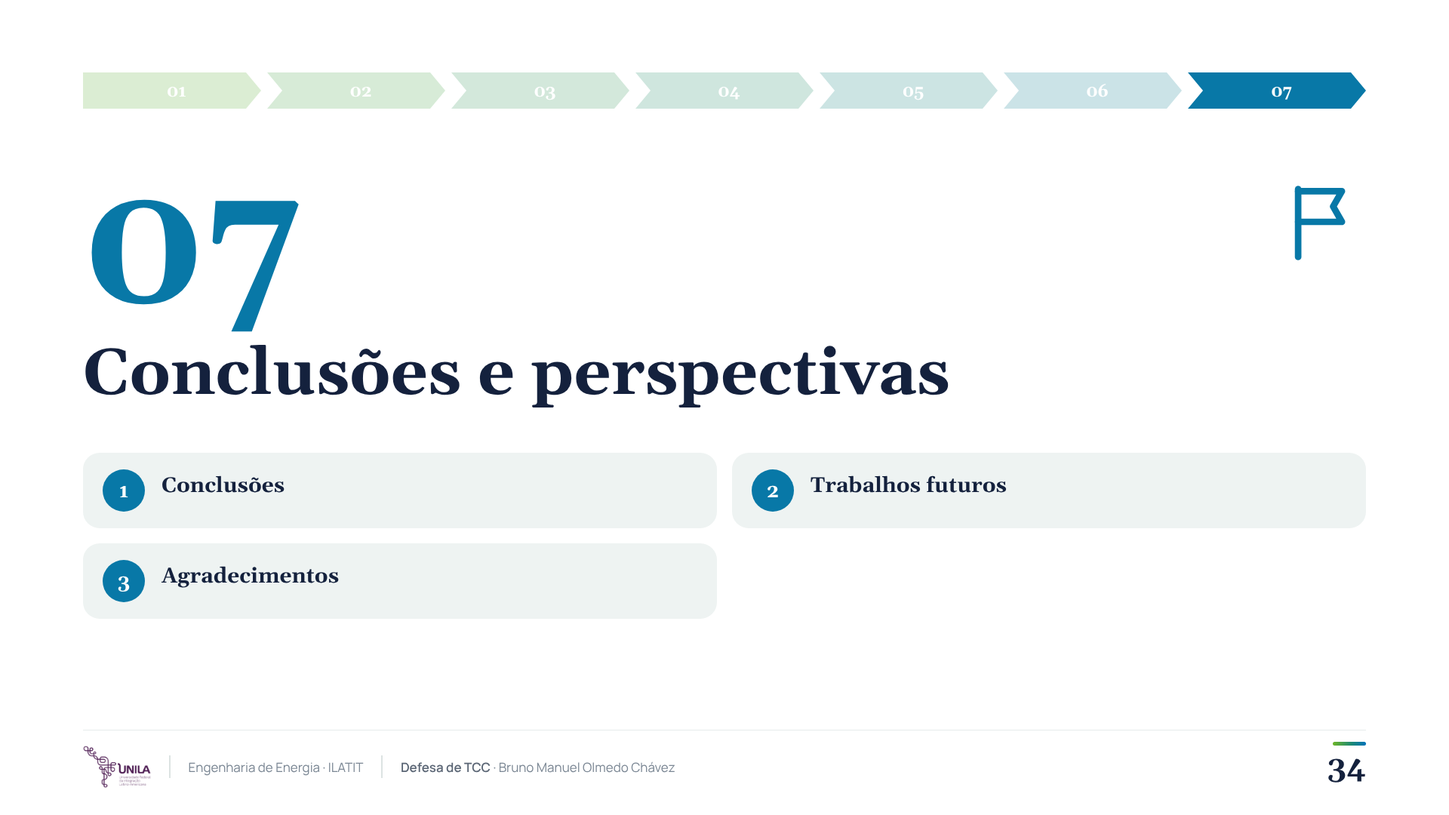
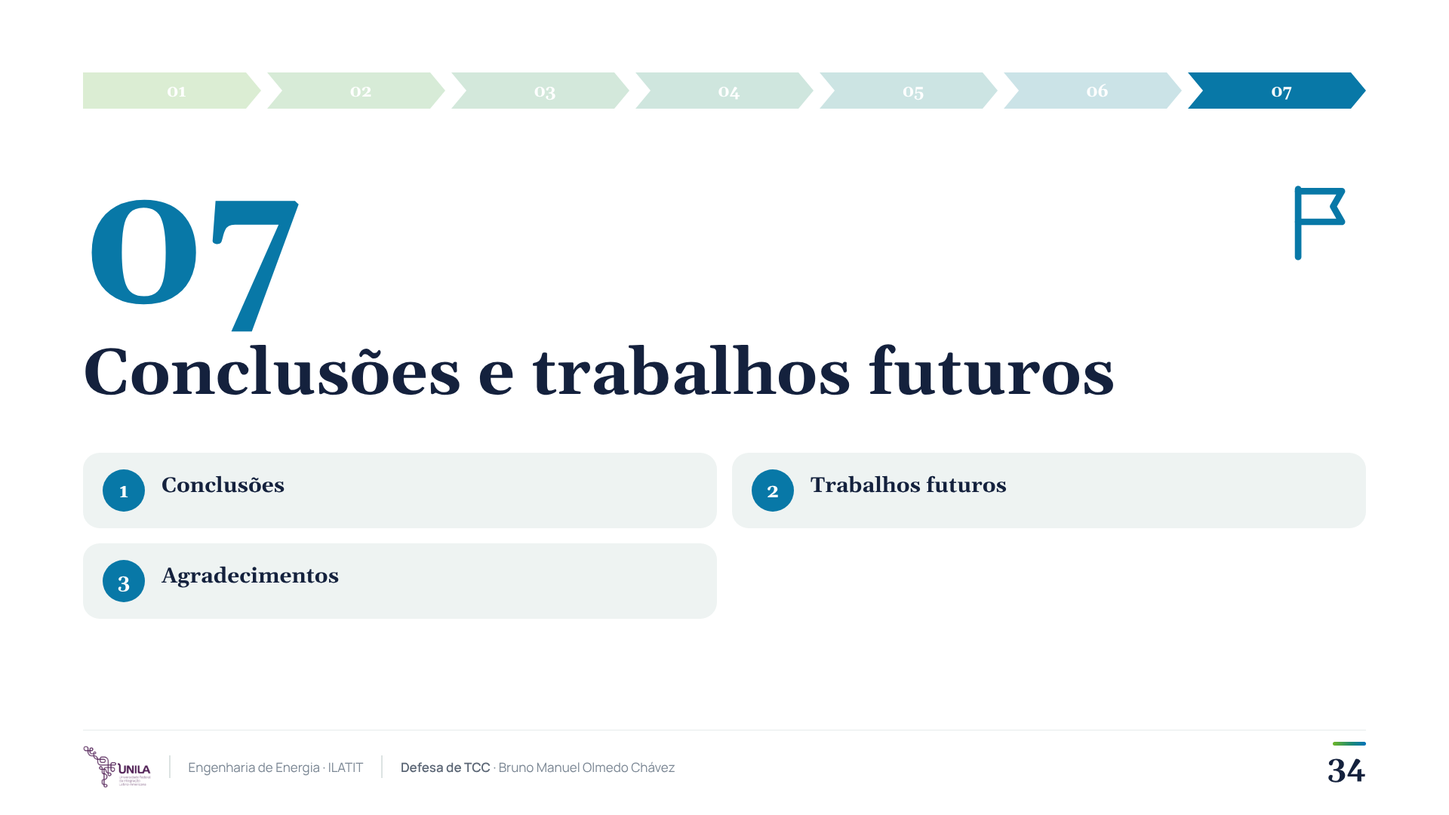
docs(defesa): slide 37 aprovado (trabalhos futuros); seção 07 renomeada para «Conclusões e trabalhos futuros»
Claude-Session: https://claude.ai/code/session_01WQ2GpNmr661smFWiS8XCqs

Changed region(s): [[0.375, 0.4278, 0.7812, 0.5194]]

diff --git a/docs/defesa_tcc/slides/divisor07.html b/docs/defesa_tcc/slides/divisor07.html
@@ -14,4 +14,4 @@ html,body{width:1920px;height:1080px;overflow:hidden;background:#fff}
 .d{position:absolute}
 .big{font:700 86px/1.05 "Gelasio",Georgia,serif;color:#14213D}
 .it{font:700 34px/1.2 "Gelasio",Georgia,serif;color:#14213D}
-</style></head><body><div class="slide" style=""><svg width="1920" height="1080" viewBox="0 0 1920 1080" style="position:absolute;left:0;top:0"><defs><linearGradient id="gb" x1="0" x2="1"><stop offset="0" stop-color="#6DB527"/><stop offset=".55" stop-color="#1E8A72"/><stop offset="1" stop-color="#0072BA"/></linearGradient><linearGradient id="gv" x1="0" y1="0" x2="0" y2="1"><stop offset="0" stop-color="#6DB527"/><stop offset=".55" stop-color="#1E8A72"/><stop offset="1" stop-color="#0072BA"/></linearGradient><radialGradient id="ge" cx=".5" cy=".5" r=".5"><stop offset="0" stop-color="#2C6FB0" stop-opacity=".16"/><stop offset="1" stop-color="#2C6FB0" stop-opacity=".03"/></radialGradient><radialGradient id="gs" cx=".5" cy=".5" r=".5"><stop offset="0" stop-color="#2E9E6B" stop-opacity=".16"/><stop offset="1" stop-color="#2E9E6B" stop-opacity=".03"/></radialGradient><linearGradient id="gq" x1="0" y1="1" x2="1" y2="0"><stop offset="0" stop-color="#1E8A72" stop-opacity="0"/><stop offset="1" stop-color="#1E8A72" stop-opacity=".13"/></linearGradient><linearGradient id="gsoc" x1="0" y1="0" x2="0" y2="1"><stop offset="0" stop-color="#7B6CF6" stop-opacity=".22"/><stop offset="1" stop-color="#7B6CF6" stop-opacity="0"/></linearGradient><linearGradient id="glime" x1="0" y1="0" x2="0" y2="1"><stop offset="0" stop-color="#C1FF72" stop-opacity=".30"/><stop offset="1" stop-color="#C1FF72" stop-opacity="0"/></linearGradient><filter id="halo" x="-60%" y="-60%" width="220%" height="220%"><feGaussianBlur stdDeviation="14"/></filter><marker id="ar" viewBox="0 0 10 10" refX="8" refY="5" markerWidth="9" markerHeight="9" orient="auto-start-reverse"><path d="M0 0L10 5L0 10z" fill="#14213D"/></marker><marker id="at" viewBox="0 0 10 10" refX="8" refY="5" markerWidth="8" markerHeight="8" orient="auto"><path d="M0 0L10 5L0 10z" fill="#1F7A6D"/></marker><clipPath id="cl"><circle cx="0" cy="0" r="1"/></clipPath><linearGradient id="gf" x1="0" y1="0" x2="0" y2="1"><stop offset="0" stop-color="#C0532F" stop-opacity=".24"/><stop offset="1" stop-color="#C0532F" stop-opacity="0"/></linearGradient><filter id="sh" x="-10%" y="-10%" width="120%" height="130%"><feDropShadow dx="0" dy="8" stdDeviation="14" flood-color="#14213D" flood-opacity=".12"/></filter></defs><polygon points="110.0,96 326.0,96 346.0,120.0 326.0,144 110.0,144" fill="#5cac37" opacity="0.22"/><text x="234.0" y="128.0" text-anchor="middle" font-family="Gelasio" font-weight="700" font-size="22" fill="#fff" letter-spacing="0">01</text><polygon points="354.0,96 570.0,96 590.0,120.0 570.0,144 354.0,144 374.0,120.0" fill="#4aa249" opacity="0.22"/><text x="478.0" y="128.0" text-anchor="middle" font-family="Gelasio" font-weight="700" font-size="22" fill="#fff" letter-spacing="0">02</text><polygon points="598.0,96 814.0,96 834.0,120.0 814.0,144 598.0,144 618.0,120.0" fill="#37985a" opacity="0.22"/><text x="722.0" y="128.0" text-anchor="middle" font-family="Gelasio" font-weight="700" font-size="22" fill="#fff" letter-spacing="0">03</text><polygon points="842.0,96 1058.0,96 1078.0,120.0 1058.0,144 842.0,144 862.0,120.0" fill="#258e6b" opacity="0.22"/><text x="966.0" y="128.0" text-anchor="middle" font-family="Gelasio" font-weight="700" font-size="22" fill="#fff" letter-spacing="0">04</text><polygon points="1086.0,96 1302.0,96 1322.0,120.0 1302.0,144 1086.0,144 1106.0,120.0" fill="#19867e" opacity="0.22"/><text x="1210.0" y="128.0" text-anchor="middle" font-family="Gelasio" font-weight="700" font-size="22" fill="#fff" letter-spacing="0">05</text><polygon points="1330.0,96 1546.0,96 1566.0,120.0 1546.0,144 1330.0,144 1350.0,120.0" fill="#107f92" opacity="0.22"/><text x="1454.0" y="128.0" text-anchor="middle" font-family="Gelasio" font-weight="700" font-size="22" fill="#fff" letter-spacing="0">06</text><polygon points="1574.0,96 1790.0,96 1810.0,120.0 1790.0,144 1574.0,144 1594.0,120.0" fill="#0878a7" opacity="1"/><text x="1698.0" y="128.0" text-anchor="middle" font-family="Gelasio" font-weight="700" font-size="22" fill="#fff" letter-spacing="0">07</text><text x="110" y="400" text-anchor="start" font-family="Gelasio" font-weight="700" font-size="230" fill="#0878a7" letter-spacing="0">07</text><svg x="1694" y="236" width="116" height="116" viewBox="0 0 40 40" style="color:#0878a7" fill="none" stroke="currentColor" stroke-width="3" stroke-linecap="round" stroke-linejoin="round"><path d="M9 36V5"/><path d="M9 6h20l-4 7 4 7H9"/></svg><rect x="110" y="600" width="840" height="100" rx="22" fill="#EEF3F2"/><circle cx="164" cy="650.0" r="28" fill="#0878a7"/><text x="164" y="659.0" text-anchor="middle" font-family="Gelasio" font-weight="700" font-size="26" fill="#fff" letter-spacing="0">1</text><rect x="970" y="600" width="840" height="100" rx="22" fill="#EEF3F2"/><circle cx="1024" cy="650.0" r="28" fill="#0878a7"/><text x="1024" y="659.0" text-anchor="middle" font-family="Gelasio" font-weight="700" font-size="26" fill="#fff" letter-spacing="0">2</text><rect x="110" y="720" width="840" height="100" rx="22" fill="#EEF3F2"/><circle cx="164" cy="770.0" r="28" fill="#0878a7"/><text x="164" y="779.0" text-anchor="middle" font-family="Gelasio" font-weight="700" font-size="26" fill="#fff" letter-spacing="0">3</text></svg><div class="d big" style="left:110px;top:452px;width:1500px">Conclusões e perspectivas</div><div class="d it" style="left:214px;top:628.0px;width:710px;font-size:28px">Conclusões</div><div class="d it" style="left:1074px;top:628.0px;width:710px;font-size:28px">Trabalhos futuros</div><div class="d it" style="left:214px;top:748.0px;width:710px;font-size:28px">Agradecimentos</div><div class="hl" style="bottom:112px"></div><div class="ft"><img src="../capa/assets/unila.png"><div class="sep"></div><span>Engenharia de Energia · ILATIT</span><div class="sep"></div><span><b>Defesa de TCC</b> · Bruno Manuel Olmedo Chávez</span></div><div class="pn">34</div></div></body></html>
+</style></head><body><div class="slide" style=""><svg width="1920" height="1080" viewBox="0 0 1920 1080" style="position:absolute;left:0;top:0"><defs><linearGradient id="gb" x1="0" x2="1"><stop offset="0" stop-color="#6DB527"/><stop offset=".55" stop-color="#1E8A72"/><stop offset="1" stop-color="#0072BA"/></linearGradient><linearGradient id="gv" x1="0" y1="0" x2="0" y2="1"><stop offset="0" stop-color="#6DB527"/><stop offset=".55" stop-color="#1E8A72"/><stop offset="1" stop-color="#0072BA"/></linearGradient><radialGradient id="ge" cx=".5" cy=".5" r=".5"><stop offset="0" stop-color="#2C6FB0" stop-opacity=".16"/><stop offset="1" stop-color="#2C6FB0" stop-opacity=".03"/></radialGradient><radialGradient id="gs" cx=".5" cy=".5" r=".5"><stop offset="0" stop-color="#2E9E6B" stop-opacity=".16"/><stop offset="1" stop-color="#2E9E6B" stop-opacity=".03"/></radialGradient><linearGradient id="gq" x1="0" y1="1" x2="1" y2="0"><stop offset="0" stop-color="#1E8A72" stop-opacity="0"/><stop offset="1" stop-color="#1E8A72" stop-opacity=".13"/></linearGradient><linearGradient id="gsoc" x1="0" y1="0" x2="0" y2="1"><stop offset="0" stop-color="#7B6CF6" stop-opacity=".22"/><stop offset="1" stop-color="#7B6CF6" stop-opacity="0"/></linearGradient><linearGradient id="glime" x1="0" y1="0" x2="0" y2="1"><stop offset="0" stop-color="#C1FF72" stop-opacity=".30"/><stop offset="1" stop-color="#C1FF72" stop-opacity="0"/></linearGradient><filter id="halo" x="-60%" y="-60%" width="220%" height="220%"><feGaussianBlur stdDeviation="14"/></filter><marker id="ar" viewBox="0 0 10 10" refX="8" refY="5" markerWidth="9" markerHeight="9" orient="auto-start-reverse"><path d="M0 0L10 5L0 10z" fill="#14213D"/></marker><marker id="at" viewBox="0 0 10 10" refX="8" refY="5" markerWidth="8" markerHeight="8" orient="auto"><path d="M0 0L10 5L0 10z" fill="#1F7A6D"/></marker><clipPath id="cl"><circle cx="0" cy="0" r="1"/></clipPath><linearGradient id="gf" x1="0" y1="0" x2="0" y2="1"><stop offset="0" stop-color="#C0532F" stop-opacity=".24"/><stop offset="1" stop-color="#C0532F" stop-opacity="0"/></linearGradient><filter id="sh" x="-10%" y="-10%" width="120%" height="130%"><feDropShadow dx="0" dy="8" stdDeviation="14" flood-color="#14213D" flood-opacity=".12"/></filter></defs><polygon points="110.0,96 326.0,96 346.0,120.0 326.0,144 110.0,144" fill="#5cac37" opacity="0.22"/><text x="234.0" y="128.0" text-anchor="middle" font-family="Gelasio" font-weight="700" font-size="22" fill="#fff" letter-spacing="0">01</text><polygon points="354.0,96 570.0,96 590.0,120.0 570.0,144 354.0,144 374.0,120.0" fill="#4aa249" opacity="0.22"/><text x="478.0" y="128.0" text-anchor="middle" font-family="Gelasio" font-weight="700" font-size="22" fill="#fff" letter-spacing="0">02</text><polygon points="598.0,96 814.0,96 834.0,120.0 814.0,144 598.0,144 618.0,120.0" fill="#37985a" opacity="0.22"/><text x="722.0" y="128.0" text-anchor="middle" font-family="Gelasio" font-weight="700" font-size="22" fill="#fff" letter-spacing="0">03</text><polygon points="842.0,96 1058.0,96 1078.0,120.0 1058.0,144 842.0,144 862.0,120.0" fill="#258e6b" opacity="0.22"/><text x="966.0" y="128.0" text-anchor="middle" font-family="Gelasio" font-weight="700" font-size="22" fill="#fff" letter-spacing="0">04</text><polygon points="1086.0,96 1302.0,96 1322.0,120.0 1302.0,144 1086.0,144 1106.0,120.0" fill="#19867e" opacity="0.22"/><text x="1210.0" y="128.0" text-anchor="middle" font-family="Gelasio" font-weight="700" font-size="22" fill="#fff" letter-spacing="0">05</text><polygon points="1330.0,96 1546.0,96 1566.0,120.0 1546.0,144 1330.0,144 1350.0,120.0" fill="#107f92" opacity="0.22"/><text x="1454.0" y="128.0" text-anchor="middle" font-family="Gelasio" font-weight="700" font-size="22" fill="#fff" letter-spacing="0">06</text><polygon points="1574.0,96 1790.0,96 1810.0,120.0 1790.0,144 1574.0,144 1594.0,120.0" fill="#0878a7" opacity="1"/><text x="1698.0" y="128.0" text-anchor="middle" font-family="Gelasio" font-weight="700" font-size="22" fill="#fff" letter-spacing="0">07</text><text x="110" y="400" text-anchor="start" font-family="Gelasio" font-weight="700" font-size="230" fill="#0878a7" letter-spacing="0">07</text><svg x="1694" y="236" width="116" height="116" viewBox="0 0 40 40" style="color:#0878a7" fill="none" stroke="currentColor" stroke-width="3" stroke-linecap="round" stroke-linejoin="round"><path d="M9 36V5"/><path d="M9 6h20l-4 7 4 7H9"/></svg><rect x="110" y="600" width="840" height="100" rx="22" fill="#EEF3F2"/><circle cx="164" cy="650.0" r="28" fill="#0878a7"/><text x="164" y="659.0" text-anchor="middle" font-family="Gelasio" font-weight="700" font-size="26" fill="#fff" letter-spacing="0">1</text><rect x="970" y="600" width="840" height="100" rx="22" fill="#EEF3F2"/><circle cx="1024" cy="650.0" r="28" fill="#0878a7"/><text x="1024" y="659.0" text-anchor="middle" font-family="Gelasio" font-weight="700" font-size="26" fill="#fff" letter-spacing="0">2</text><rect x="110" y="720" width="840" height="100" rx="22" fill="#EEF3F2"/><circle cx="164" cy="770.0" r="28" fill="#0878a7"/><text x="164" y="779.0" text-anchor="middle" font-family="Gelasio" font-weight="700" font-size="26" fill="#fff" letter-spacing="0">3</text></svg><div class="d big" style="left:110px;top:452px;width:1500px">Conclusões e trabalhos futuros</div><div class="d it" style="left:214px;top:628.0px;width:710px;font-size:28px">Conclusões</div><div class="d it" style="left:1074px;top:628.0px;width:710px;font-size:28px">Trabalhos futuros</div><div class="d it" style="left:214px;top:748.0px;width:710px;font-size:28px">Agradecimentos</div><div class="hl" style="bottom:112px"></div><div class="ft"><img src="../capa/assets/unila.png"><div class="sep"></div><span>Engenharia de Energia · ILATIT</span><div class="sep"></div><span><b>Defesa de TCC</b> · Bruno Manuel Olmedo Chávez</span></div><div class="pn">34</div></div></body></html>

diff --git a/docs/defesa_tcc/slides/slide37_aprovado.html b/docs/defesa_tcc/slides/slide37_aprovado.html
@@ -1,0 +1,19 @@
+<!doctype html><html lang="pt-BR"><head><meta charset="utf-8"><style>
+@import url("../capa/assets/fonts.css");
+*{box-sizing:border-box;margin:0;padding:0}
+html,body{width:1920px;height:1080px;overflow:hidden;background:#fff}
+.slide{position:relative;width:1920px;height:1080px;overflow:hidden;font-family:"Manrope",sans-serif;color:#14213D}
+.tt{position:absolute;left:110px;top:70px;font:700 60px "Gelasio",Georgia,serif}
+.hl{position:absolute;left:110px;right:110px;height:1.5px;background:#E6ECEB}
+.ft{position:absolute;left:110px;right:110px;bottom:34px;height:60px;display:flex;align-items:center;gap:24px;font:500 17px "Manrope";color:#7B8794}
+.ft img{height:56px}.ft .sep{width:1.5px;height:30px;background:#DCE3E2}.ft b{font-weight:600;color:#5B6675}
+.pn{position:absolute;right:110px;bottom:42px;font:700 40px "Gelasio",serif;line-height:1;text-align:right}
+.pn::before{content:"";display:block;width:44px;height:5px;border-radius:3px;margin:0 0 10px auto;background:linear-gradient(90deg,#6DB527,#1E8A72 55%,#0072BA)}
+.ref{position:absolute;left:110px;bottom:124px;font:500 14px "Manrope";color:#9AA5B1}
+
+.d{position:absolute}
+.p{font:500 22px/1.38 "Manrope";color:#4A5568}
+.p b{font-weight:800;color:#14213D}
+.p i{font-style:normal;color:#C0532F;font-weight:800}
+.p u{text-decoration:none;color:#1F7A6D;font-weight:800}
+</style></head><body><div class="slide"><div class="tt">Trabalhos futuros</div><svg width="1920" height="1080" viewBox="0 0 1920 1080" style="position:absolute;left:0;top:0"><rect x="110.0" y="240" width="322.4" height="650" rx="26" fill="#EEF3F2"/><circle cx="172.0" cy="310" r="38" fill="#fff" stroke="#C0532F" stroke-width="3"/><svg x="148.0" y="286" width="48" height="48" viewBox="0 0 40 40" style="color:#C0532F"><g fill="none" stroke="currentColor" stroke-width="3" stroke-linejoin="round" stroke-linecap="round"><path d="M5 36V22l7 4v-4l7 4V12h6v24z"/><path d="M28 9c2-3 6-2 6 1M26 4c2-1 4 0 4 2"/></g></svg><line x1="138.0" x2="404.4" y1="712" y2="712" stroke="#D5DDDC" stroke-width="2"/><rect x="454.4" y="240" width="322.4" height="650" rx="26" fill="#EEF3F2"/><circle cx="516.4" cy="310" r="38" fill="#fff" stroke="#2C6FB0" stroke-width="3"/><svg x="492.4" y="286" width="48" height="48" viewBox="0 0 40 40" style="color:#2C6FB0"><circle cx="20" cy="20" r="15" fill="none" stroke="currentColor" stroke-width="3"/><path d="M20 11v10l7 4" fill="none" stroke="currentColor" stroke-width="3" stroke-linecap="round"/></svg><line x1="482.4" x2="748.8" y1="712" y2="712" stroke="#D5DDDC" stroke-width="2"/><rect x="798.8" y="240" width="322.4" height="650" rx="26" fill="#EEF3F2"/><circle cx="860.8" cy="310" r="38" fill="#fff" stroke="#7B6CF6" stroke-width="3"/><svg x="836.8" y="286" width="48" height="48" viewBox="0 0 40 40" style="color:#7B6CF6"><rect x="6" y="11" width="25" height="18" rx="3" fill="none" stroke="currentColor" stroke-width="3"/><rect x="32" y="16" width="3" height="8" fill="currentColor"/><rect x="10" y="15" width="11" height="10" fill="currentColor"/></svg><line x1="826.8" x2="1093.1999999999998" y1="712" y2="712" stroke="#D5DDDC" stroke-width="2"/><rect x="1143.1999999999998" y="240" width="322.4" height="650" rx="26" fill="#EEF3F2"/><circle cx="1205.1999999999998" cy="310" r="38" fill="#fff" stroke="#4C8DD6" stroke-width="3"/><svg x="1181.1999999999998" y="286" width="48" height="48" viewBox="0 0 40 40" style="color:#4C8DD6"><path d="M12 31h17a7 7 0 0 0 0-14 10 10 0 0 0-19 3 6 6 0 0 0 2 11z" fill="none" stroke="currentColor" stroke-width="3" stroke-linejoin="round"/></svg><line x1="1171.1999999999998" x2="1437.6" y1="712" y2="712" stroke="#D5DDDC" stroke-width="2"/><rect x="1487.6" y="240" width="322.4" height="650" rx="26" fill="#EEF3F2"/><circle cx="1549.6" cy="310" r="38" fill="#fff" stroke="#1F7A6D" stroke-width="3"/><svg x="1525.6" y="286" width="48" height="48" viewBox="0 0 40 40" style="color:#1F7A6D"><path d="M9 21l7 7 15-16" fill="none" stroke="currentColor" stroke-width="3.5" stroke-linecap="round" stroke-linejoin="round"/></svg><line x1="1515.6" x2="1782.0" y1="712" y2="712" stroke="#D5DDDC" stroke-width="2"/></svg><div class="d " style="left:110px;top:168px;width:1700px;font:600 30px Manrope;color:#4A5568">A plataforma está pronta para avançar em:</div><div class="d " style="left:138.0px;top:376px;width:266.4px;font:700 30px/1.2 Gelasio,serif;color:#14213D">Geração térmica no EMS</div><div class="d p" style="left:138.0px;top:494px;width:266.4px;font-size:25px;line-height:1.4">Custos de combustível e restrições operacionais na formulação.</div><div class="d p" style="left:138.0px;top:730px;width:266.4px;font-size:23px;line-height:1.35"><div style="font:700 22px Manrope;color:#C0532F;margin-bottom:4px">Hoje</div>Modelo físico na bancada, ainda fora do EMS.</div><div class="d " style="left:482.4px;top:376px;width:266.4px;font:700 30px/1.2 Gelasio,serif;color:#14213D">Malha temporal automática</div><div class="d p" style="left:482.4px;top:494px;width:266.4px;font-size:25px;line-height:1.4">Definir o passo e os horizontes a partir dos dados e dos recursos.</div><div class="d p" style="left:482.4px;top:730px;width:266.4px;font-size:23px;line-height:1.35"><div style="font:700 22px Manrope;color:#2C6FB0;margin-bottom:4px">Hoje</div>Passo, N e H<sub>L</sub> declarados no cenário.</div><div class="d " style="left:826.8px;top:376px;width:266.4px;font:700 30px/1.2 Gelasio,serif;color:#14213D">Custo futuro com vários bancos</div><div class="d p" style="left:826.8px;top:494px;width:266.4px;font-size:25px;line-height:1.4">Aproximação mais fiel quando há mais de um armazenamento.</div><div class="d p" style="left:826.8px;top:730px;width:266.4px;font-size:23px;line-height:1.35"><div style="font:700 22px Manrope;color:#7B6CF6;margin-bottom:4px">Hoje</div>Até dois bancos, por envoltória convexa.</div><div class="d " style="left:1171.1999999999998px;top:376px;width:266.4px;font:700 30px/1.2 Gelasio,serif;color:#14213D">Previsão × realidade</div><div class="d p" style="left:1171.1999999999998px;top:494px;width:266.4px;font-size:25px;line-height:1.4">Avaliar a robustez com erros de previsão de demanda e clima.</div><div class="d p" style="left:1171.1999999999998px;top:730px;width:266.4px;font-size:23px;line-height:1.35"><div style="font:700 22px Manrope;color:#4C8DD6;margin-bottom:4px">Hoje</div>Realização igual à previsão (ensaio).</div><div class="d " style="left:1515.6px;top:376px;width:266.4px;font:700 30px/1.2 Gelasio,serif;color:#14213D">Dados experimentais</div><div class="d p" style="left:1515.6px;top:494px;width:266.4px;font-size:25px;line-height:1.4">Comparar com medições para validar a representatividade dos modelos.</div><div class="d p" style="left:1515.6px;top:730px;width:266.4px;font-size:23px;line-height:1.35"><div style="font:700 22px Manrope;color:#1F7A6D;margin-bottom:4px">Hoje</div>Modelos parametrizados, não calibrados.</div><div class="ref">Seções 7.4 e 8 do artigo</div><div class="hl" style="bottom:112px"></div><div class="ft"><img src="../capa/assets/unila.png"><div class="sep"></div><span>Engenharia de Energia · ILATIT</span><div class="sep"></div><span><b>Defesa de TCC</b> · Bruno Manuel Olmedo Chávez</span></div><div class="pn">37</div></div></body></html>

diff --git a/docs/defesa_tcc/capa/sumario.html b/docs/defesa_tcc/capa/sumario.html
@@ -23,4 +23,4 @@
 .cz.dm{background:var(--navy)}.cz.dm h3{color:#fff}
 .cz .vivo{position:absolute;right:30px;top:36px;display:flex;align-items:center;gap:10px;font:600 20px var(--sans);color:var(--lime)}
 .cz .vivo i{width:12px;height:12px;border-radius:50%;background:var(--lime);box-shadow:0 0 0 6px rgba(193,255,114,.18)}
-</style></head><body><div class="slide"><div class="tt" style="top:78px">Sumário</div><svg width="1920" height="1080" style="position:absolute;left:0;top:0"><defs><linearGradient id="g" x1="0" y1="0" x2="1" y2="0"><stop offset="0" stop-color="#6DB527"/><stop offset=".55" stop-color="#1E8A72"/><stop offset="1" stop-color="#0072BA"/></linearGradient></defs><path d="M110 525.0 L408.5 525.0 L428.5 545 L408.5 565.0 L110 565.0  Z" fill="#5cac37"/><path d="M416.5 525.0 L623.5 525.0 L643.5 545 L623.5 565.0 L416.5 565.0 L436.5 545 Z" fill="#4aa249"/><path d="M631.5 525.0 L838.5 525.0 L858.5 545 L838.5 565.0 L631.5 565.0 L651.5 545 Z" fill="#37985a"/><path d="M846.5 525.0 L1053.5 525.0 L1073.5 545 L1053.5 565.0 L846.5 565.0 L866.5 545 Z" fill="#258e6b"/><path d="M1061.5 525.0 L1268.5 525.0 L1288.5 545 L1268.5 565.0 L1061.5 565.0 L1081.5 545 Z" fill="#19867e"/><path d="M1276.5 525.0 L1483.5 525.0 L1503.5 545 L1483.5 565.0 L1276.5 565.0 L1296.5 545 Z" fill="#107f92"/><path d="M1491.5 525.0 L1790 525.0 L1810 545 L1790 565.0 L1491.5 565.0 L1511.5 545 Z" fill="#0878a7"/><circle cx="315.0" cy="545" r="7" fill="#fff"/><circle cx="530.0" cy="545" r="7" fill="#fff"/><circle cx="745.0" cy="545" r="7" fill="#fff"/><circle cx="960.0" cy="545" r="7" fill="#fff"/><circle cx="1175.0" cy="545" r="7" fill="#fff"/><circle cx="1390.0" cy="545" r="7" fill="#fff"/><circle cx="1605.0" cy="545" r="7" fill="#fff"/><line x1="315.0" y1="453" x2="315.0" y2="527.0" stroke="#5cac37" stroke-width="10"/><line x1="530.0" y1="567.0" x2="530.0" y2="633" stroke="#4aa249" stroke-width="10"/><line x1="745.0" y1="453" x2="745.0" y2="527.0" stroke="#37985a" stroke-width="10"/><line x1="960.0" y1="567.0" x2="960.0" y2="633" stroke="#258e6b" stroke-width="10"/><line x1="1175.0" y1="453" x2="1175.0" y2="527.0" stroke="#19867e" stroke-width="10"/><line x1="1390.0" y1="567.0" x2="1390.0" y2="633" stroke="#107f92" stroke-width="10"/><line x1="1605.0" y1="453" x2="1605.0" y2="527.0" stroke="#0878a7" stroke-width="10"/></svg><div class="cz up" style="left:110.0px;top:205px;border-color:#5cac37"><div class="nn" style="color:#5cac37">01</div><h3>Contexto e objetivos</h3></div><div class="cz dn" style="left:325.0px;top:635px;border-color:#4aa249"><div class="nn" style="color:#4aa249">02</div><h3>Fundamentação teórica</h3></div><div class="cz up" style="left:540.0px;top:205px;border-color:#37985a"><div class="nn" style="color:#37985a">03</div><h3>Desenvolvimento do&nbsp;SEEDS</h3></div><div class="cz dn" style="left:755.0px;top:635px;border-color:#258e6b"><div class="nn" style="color:#258e6b">04</div><h3>Estudos de caso</h3></div><div class="cz up dm" style="left:970.0px;top:205px;border-color:#19867e"><div class="nn" style="color:#C1FF72">05</div><div class="vivo"><i></i>ao vivo</div><h3>Demonstração do&nbsp;SEEDS</h3></div><div class="cz dn" style="left:1185.0px;top:635px;border-color:#107f92"><div class="nn" style="color:#107f92">06</div><h3>Resultados</h3></div><div class="cz up" style="left:1400.0px;top:205px;border-color:#0878a7"><div class="nn" style="color:#0878a7">07</div><h3>Conclusões e perspectivas</h3></div><div class="hl" style="bottom:112px"></div><div class="ft"><img src="assets/unila.png"><div class="sep"></div><span>Engenharia de Energia · ILATIT</span><div class="sep"></div><span><b>Defesa de TCC</b> · Bruno Manuel Olmedo Chávez</span></div><div class="pn" style="bottom:42px">2</div></div></body></html>
+</style></head><body><div class="slide"><div class="tt" style="top:78px">Sumário</div><svg width="1920" height="1080" style="position:absolute;left:0;top:0"><defs><linearGradient id="g" x1="0" y1="0" x2="1" y2="0"><stop offset="0" stop-color="#6DB527"/><stop offset=".55" stop-color="#1E8A72"/><stop offset="1" stop-color="#0072BA"/></linearGradient></defs><path d="M110 525.0 L408.5 525.0 L428.5 545 L408.5 565.0 L110 565.0  Z" fill="#5cac37"/><path d="M416.5 525.0 L623.5 525.0 L643.5 545 L623.5 565.0 L416.5 565.0 L436.5 545 Z" fill="#4aa249"/><path d="M631.5 525.0 L838.5 525.0 L858.5 545 L838.5 565.0 L631.5 565.0 L651.5 545 Z" fill="#37985a"/><path d="M846.5 525.0 L1053.5 525.0 L1073.5 545 L1053.5 565.0 L846.5 565.0 L866.5 545 Z" fill="#258e6b"/><path d="M1061.5 525.0 L1268.5 525.0 L1288.5 545 L1268.5 565.0 L1061.5 565.0 L1081.5 545 Z" fill="#19867e"/><path d="M1276.5 525.0 L1483.5 525.0 L1503.5 545 L1483.5 565.0 L1276.5 565.0 L1296.5 545 Z" fill="#107f92"/><path d="M1491.5 525.0 L1790 525.0 L1810 545 L1790 565.0 L1491.5 565.0 L1511.5 545 Z" fill="#0878a7"/><circle cx="315.0" cy="545" r="7" fill="#fff"/><circle cx="530.0" cy="545" r="7" fill="#fff"/><circle cx="745.0" cy="545" r="7" fill="#fff"/><circle cx="960.0" cy="545" r="7" fill="#fff"/><circle cx="1175.0" cy="545" r="7" fill="#fff"/><circle cx="1390.0" cy="545" r="7" fill="#fff"/><circle cx="1605.0" cy="545" r="7" fill="#fff"/><line x1="315.0" y1="453" x2="315.0" y2="527.0" stroke="#5cac37" stroke-width="10"/><line x1="530.0" y1="567.0" x2="530.0" y2="633" stroke="#4aa249" stroke-width="10"/><line x1="745.0" y1="453" x2="745.0" y2="527.0" stroke="#37985a" stroke-width="10"/><line x1="960.0" y1="567.0" x2="960.0" y2="633" stroke="#258e6b" stroke-width="10"/><line x1="1175.0" y1="453" x2="1175.0" y2="527.0" stroke="#19867e" stroke-width="10"/><line x1="1390.0" y1="567.0" x2="1390.0" y2="633" stroke="#107f92" stroke-width="10"/><line x1="1605.0" y1="453" x2="1605.0" y2="527.0" stroke="#0878a7" stroke-width="10"/></svg><div class="cz up" style="left:110.0px;top:205px;border-color:#5cac37"><div class="nn" style="color:#5cac37">01</div><h3>Contexto e objetivos</h3></div><div class="cz dn" style="left:325.0px;top:635px;border-color:#4aa249"><div class="nn" style="color:#4aa249">02</div><h3>Fundamentação teórica</h3></div><div class="cz up" style="left:540.0px;top:205px;border-color:#37985a"><div class="nn" style="color:#37985a">03</div><h3>Desenvolvimento do&nbsp;SEEDS</h3></div><div class="cz dn" style="left:755.0px;top:635px;border-color:#258e6b"><div class="nn" style="color:#258e6b">04</div><h3>Estudos de caso</h3></div><div class="cz up dm" style="left:970.0px;top:205px;border-color:#19867e"><div class="nn" style="color:#C1FF72">05</div><div class="vivo"><i></i>ao vivo</div><h3>Demonstração do&nbsp;SEEDS</h3></div><div class="cz dn" style="left:1185.0px;top:635px;border-color:#107f92"><div class="nn" style="color:#107f92">06</div><h3>Resultados</h3></div><div class="cz up" style="left:1400.0px;top:205px;border-color:#0878a7"><div class="nn" style="color:#0878a7">07</div><h3>Conclusões e trabalhos futuros</h3></div><div class="hl" style="bottom:112px"></div><div class="ft"><img src="assets/unila.png"><div class="sep"></div><span>Engenharia de Energia · ILATIT</span><div class="sep"></div><span><b>Defesa de TCC</b> · Bruno Manuel Olmedo Chávez</span></div><div class="pn" style="bottom:42px">2</div></div></body></html>

diff --git a/docs/defesa_tcc/pptx/gerar_pptx.js b/docs/defesa_tcc/pptx/gerar_pptx.js
@@ -52,7 +52,7 @@ async function icone(k, c) {
 // ordem, títulos, seções e notas: deck.json (gerado por deck.py); imagens: img_hd/deckNN.png (exportar_deck.js)
 const DECK = JSON.parse(fs.readFileSync(path.join(AQUI, "deck.json"), "utf8"));
 const SEC = ["Contexto e objetivos", "Fundamentação teórica", "Desenvolvimento do SEEDS", "Estudos de caso",
-             "Demonstração do SEEDS", "Resultados", "Conclusões e perspectivas"];
+             "Demonstração do SEEDS", "Resultados", "Conclusões e trabalhos futuros"];
 
 (async () => {
   const pres = new pptxgen();
@@ -131,7 +131,7 @@ const SEC = ["Contexto e objetivos", "Fundamentação teórica", "Desenvolviment
   // ---------------------------------------------------------------- 2 · sumário
   s = pres.addSlide({ masterName: "CONTEUDO", sectionTitle: "Abertura" });
   s.addText("Sumário", { placeholder: "title", align: "left" });
-  const TIT = ["Contexto e objetivos", "Fundamentação teórica", "Desenvolvimento do\u00A0SEEDS", "Estudos de caso", "Demonstração do\u00A0SEEDS", "Resultados", "Conclusões e perspectivas"];
+  const TIT = ["Contexto e objetivos", "Fundamentação teórica", "Desenvolvimento do\u00A0SEEDS", "Estudos de caso", "Demonstração do\u00A0SEEDS", "Resultados", "Conclusões e trabalhos futuros"];
   const x0 = 110, x1 = 1810, w = 410, h = 250, gap = (x1 - x0 - 4 * w) / 3, yU = 205, yB = 545, yD = 635, H = 40, d = 20, g = 8;
   const up = [0, 1, 2, 3].map((k) => x0 + w / 2 + k * (w + gap));
   const dn = up.slice(0, 3).map((a, k) => (a + up[k + 1]) / 2);

diff --git a/docs/defesa_tcc/pptx/deck.py b/docs/defesa_tcc/pptx/deck.py
@@ -14,7 +14,7 @@ from gerar_slide4_v3 import CSS  # noqa: E402
 
 FALA = {s["t"]: s.get("fala", "") for s in conteudo.SLIDES}
 SEC = ["Contexto e objetivos", "Fundamentação teórica", "Desenvolvimento do SEEDS", "Estudos de caso",
-       "Demonstração do SEEDS", "Resultados", "Conclusões e perspectivas"]
+       "Demonstração do SEEDS", "Resultados", "Conclusões e trabalhos futuros"]
 
 # (título, seção 1–7, html aprovado relativo a docs/defesa_tcc, ou None = provisório)
 ORDEM = [
@@ -52,15 +52,16 @@ ORDEM = [
     ("Resultados — custos operacionais (C1–C4)", 6, "slides/slide32_aprovado.html"),
     ("Resultados — embarcação híbrida (C5 × C6)", 6, "slides/slide33_aprovado.html"),
     ("Expansibilidade e desempenho computacional", 6, "slides/slide34_aprovado.html"),
-    ("Conclusões e perspectivas", 7, "slides/divisor07.html"),
+    ("Conclusões e trabalhos futuros", 7, "slides/divisor07.html"),
     ("Conclusões", 7, "slides/slide36_aprovado.html"),
-    ("Trabalhos futuros", 7, None),
+    ("Trabalhos futuros", 7, "slides/slide37_aprovado.html"),
     ("Agradecimentos", 7, None),
 ]
 # título do slide no roteiro (conteudo.py) quando difere do título no deck — para buscar a fala
 ALIAS = {"Estratégia de avaliação": "Estudos de caso", "Demonstração do SEEDS — acesso ao aplicativo": "Demonstração do SEEDS",
          "Resultados — coordenação hierárquica": "Resultados — coordenação hierárquica"}
 NOTA_EXTRA = {
+    "Trabalhos futuros": "A plataforma está pronta para avançar. Primeiro, levar a geração térmica para dentro do EMS, com custos de combustível e restrições operacionais: hoje ela tem modelo físico na bancada, mas ainda fica fora do gerenciamento. Segundo, definir automaticamente a malha temporal, que hoje é declarada no cenário. Terceiro, aperfeiçoar o custo futuro quando há mais de um banco de baterias. Quarto, avaliar a robustez com erros de previsão, já que nos ensaios a realização foi igual à previsão. E, por fim, comparar com dados experimentais, para validar a representatividade dos modelos.",
     "Conclusões": "Voltando à pergunta do início: um mesmo gerenciamento energético consegue operar microrredes de composições diferentes, considerando o valor futuro da energia armazenada? Sim, dentro do conjunto de recursos que a formulação representa. Na microrrede industrial, a bateria começou a carregar antes de a ponta entrar no horizonte do MPC, guiada pelo valor futuro; a economia foi a soma dos efeitos da solar e da bateria; e o plano da primeira decisão coincidiu com o custo realizado. Na embarcação, a demanda foi atendida sem rede; com a bateria carregada, a PEMFC ficou na base e a reserva foi cumprida; com pouca bateria, a PEMFC assumiu quase tudo e o hidrogênio quase dobrou. Os quatro objetivos específicos foram cumpridos.",
     "Expansibilidade e desempenho computacional": "Por fim, o desempenho. O mesmo código do EMS rodou nove composições, da microrrede só com rede até bateria com duas PEMFC: o MILP da primeira janela vai de 7 a 217 variáveis, mas a formulação, os critérios e a auditoria são os mesmos. A PEMFC entra no MILP por uma curva linear por partes de 15 vértices, gerada pelo modelo físico; comparada ao modelo em 402 pontos independentes, o erro máximo foi de 0,087 %, e o consumo nunca foi subestimado. As 168 janelas foram resolvidas até a otimalidade, cada decisão em até 5 segundos, e um dia inteiro da microrrede industrial em menos de 5 minutos.",
     "Resultados — embarcação híbrida (C5 × C6)": "Na embarcação, rodamos a mesma missão duas vezes, mudando só a carga inicial da bateria. Os despachos são os do próprio SEEDS. Em C5, com a bateria a 50 % e reserva final de 45 kWh, a PEMFC fica na base, entre 10 e 20 kW, onde o hidrogênio rende melhor, e a bateria cobre as variações da demanda; a missão termina exatamente na reserva. Em C6, com a bateria a 12 %, não há energia para gastar: a PEMFC passa a suprir 88 % da energia, entre 20 e 44 kW, recarrega a própria bateria nos intervalos de baixa demanda, e a bateria só entra nos picos. O consumo de hidrogênio quase dobra: 4,163 contra 2,156 kg. Mesma bateria, mesma missão, mesmo EMS: o que mudou foi o estado inicial, e o gerenciamento se adaptou a ele.",

diff --git a/docs/defesa_tcc/guia/conteudo.py b/docs/defesa_tcc/guia/conteudo.py
@@ -16,7 +16,7 @@ BLOCOS = [
      "Provar que a plataforma existe, funciona e reproduz o artigo: reproduzir ao vivo um resultado publicado."),
     ("V", "Resultados", "6:00",
      "Transformar números em respostas. Cada slide responde a «o que isto prova?»: custo → comportamento → hierarquia → embarcação → contraste → expansibilidade."),
-    ("VI", "Conclusões e perspectivas", "2:00",
+    ("VI", "Conclusões e trabalhos futuros", "2:00",
      "Responder à pergunta do início, objetivo por objetivo, e mostrar para onde a plataforma pode avançar."),
 ]
 
@@ -34,7 +34,7 @@ SLIDES = [
  dict(n=2, b="0", t="Sumário", tempo="0:20", status="Pronto", contrib="",
       msg="O percurso tem sete etapas — e uma delas é ao vivo.",
       tela=["Barramento em chevrons com 7 etapas em sequência",
-            "Cartões alternados acima e abaixo: 01 Contexto e objetivos · 02 Fundamentação teórica · 03 Desenvolvimento do SEEDS · 04 Estudos de caso · 05 Demonstração do SEEDS · 06 Resultados · 07 Conclusões e perspectivas",
+            "Cartões alternados acima e abaixo: 01 Contexto e objetivos · 02 Fundamentação teórica · 03 Desenvolvimento do SEEDS · 04 Estudos de caso · 05 Demonstração do SEEDS · 06 Resultados · 07 Conclusões e trabalhos futuros",
             "Cartão 05 em destaque (azul-marinho) com «ao vivo»"],
       porque="Mostra o caminho e anuncia que haverá uma demonstração; os mesmos chevrons podem voltar como barra de progresso nas transições de bloco.",
       fala="O percurso é este: contexto, fundamentos, a plataforma, os estudos, uma demonstração ao vivo, os resultados e as conclusões.",

diff --git a/docs/defesa_tcc/slides/gerar_divisores.py b/docs/defesa_tcc/slides/gerar_divisores.py
@@ -13,7 +13,7 @@ exec(_src[:_src.index("GRAD =")], SM.__dict__)          # só IC e cor(); não r
 
 D = os.path.dirname(os.path.abspath(__file__))
 SECOES = ["Contexto e objetivos", "Fundamentação teórica", "Desenvolvimento do SEEDS", "Estudos de caso",
-          "Demonstração do SEEDS", "Resultados", "Conclusões e perspectivas"]
+          "Demonstração do SEEDS", "Resultados", "Conclusões e trabalhos futuros"]
 _XS = [315, 530, 745, 960, 1175, 1390, 1605]            # posições dos nós no sumário aprovado (zigue-zague)
 COR = [SM.cor((x - 110) / 1700) for x in _XS]
 SUB = {

diff --git a/docs/defesa_tcc/capa/gerar_sumario2.py b/docs/defesa_tcc/capa/gerar_sumario2.py
@@ -5,7 +5,7 @@ D = os.path.dirname(os.path.abspath(__file__))
 AUT = "Bruno Manuel Olmedo Chávez"
 CUR = "Engenharia de Energia · ILATIT"
 TIT = ["Contexto e objetivos", "Fundamentação teórica", "Desenvolvimento do&nbsp;SEEDS", "Estudos de caso",
-       "Demonstração do&nbsp;SEEDS", "Resultados", "Conclusões e perspectivas"]
+       "Demonstração do&nbsp;SEEDS", "Resultados", "Conclusões e trabalhos futuros"]
 
 # ícones de seção — mesmo traço dos ícones de recurso (40×40, 3 px, pontas arredondadas)
 IC = [

diff --git a/docs/defesa_tcc/CONTINUAR.md b/docs/defesa_tcc/CONTINUAR.md
@@ -4,12 +4,12 @@ Branch: `claude/dazzling-bohr-5d0121` · pasta `docs/defesa_tcc/`. Defesa de TCC
 
 ## Estado (26/11/2026)
 - **Deck: 38 slides**, ordem única em `pptx/deck.py` (→ `deck.json`). Tabela vigente: `ROTEIRO.md` § «Ordem do deck».
-- **Aprovados (36):** 1 capa · 2 sumário · 3 separador 01 · 4 Contexto · 5 Decisões com consequências futuras · 6 Trabalhos relacionados ·
+- **Aprovados (37):** 1 capa · 2 sumário · 3 separador 01 · 4 Contexto · 5 Decisões com consequências futuras · 6 Trabalhos relacionados ·
   7 Objetivos · 8 O SEEDS · 9 separador 02 · 10–11 Modelagem dos recursos (3 + 2) · 12 Por que MILP · 13 O MILP da microrrede · 14 MPC · 15 Coordenação hierárquica e valor futuro · 16 Gerenciamento energético hierárquico MILP–MPC (Fig. 4.1) · 18 Arquitetura do SEEDS (Fig. 5.1) · 19 Representação energética comum · 20 EMS hierárquico no SEEDS (Fig. 5.2) · 21 Verificação e fluxo de execução (Fig. 5.3) · 23 Estratégia de avaliação ·
-  24 Dados de entrada CT-046 · 25 Configuração CT-046 · 26 Dados de entrada EMB-H2-120 · 27 Configuração EMB-H2-120 · 29 Demonstração — acesso ao aplicativo (QR) · 31 Resultados — operação do armazenamento · 32 Resultados — custos C1–C4 · 33 Resultados — embarcação C5 × C6 · 34 Expansibilidade e desempenho · 36 Conclusões ·
+  24 Dados de entrada CT-046 · 25 Configuração CT-046 · 26 Dados de entrada EMB-H2-120 · 27 Configuração EMB-H2-120 · 29 Demonstração — acesso ao aplicativo (QR) · 31 Resultados — operação do armazenamento · 32 Resultados — custos C1–C4 · 33 Resultados — embarcação C5 × C6 · 34 Expansibilidade e desempenho · 36 Conclusões · 37 Trabalhos futuros ·
   separadores 03–07 (17, 22, 28, 30, 36).
 - **Slide «papel do armazenamento (C4, C5 e C6)» REMOVIDO** (decisão do responsável): a comparação entre os dois
-  estudos ("na microrrede industrial observamos… / na embarcação observamos…") abre as CONCLUSÕES. **Próximo: slide 37 Perspectivas**, 38 Agradecimentos; depois 34 papel do armazenamento (C4 × C6),
+  estudos ("na microrrede industrial observamos… / na embarcação observamos…") abre as CONCLUSÕES. **Próximo: slide 38 Agradecimentos** (pedir nomes de orientadores e banca); depois 34 papel do armazenamento (C4 × C6),
   35 expansibilidade e desempenho (+ curva PWL da PEMFC; conferir 500 × 402 pontos), encerramento 37–39.
   Seção de resultados (plano aprovado): 31 operação do armazenamento (+ coordenação: «decide antes de ver a ponta»), 32 custos
   (+ «o plano se cumpre» 865,02 × 865,03), 33 C5, 34 C4 × C6, 35 apoio. **Gráficos com o MOTOR GRÁFICO DO SEEDS**: marcos das
@@ -18,7 +18,7 @@ Branch: `claude/dazzling-bohr-5d0121` · pasta `docs/defesa_tcc/`. Defesa de TCC
   Cartões no estilo `.pt .card` (fundo #f4f4f2 sobre #e6e6e4, filete de cor, números em Archivo; fontes em `slides/assets/fonts_seeds`).
   Rodada de C6 REPRODUZIDA no SEEDS por `slides/seeds_fig/rodar_c6.py` (venv com pyomo/highspy no scratchpad; idêntica ao artigo: 4,163 kg, 60,00 kWh, fim em 15,00 kWh). Rodar com PYTHONDONTWRITEBYTECODE=1 (senão regenera os __pycache__ versionados).
 - Geradores aprovados: `slides/gerar_slide3_v3.py`, `gerar_slide4_v6.py` (H1), `gerar_slide5_v4.py` (E1), `gerar_slide6.py` (`g6_final`),
-  `gerar_slide7_v2.py` (`k3v2`), `gerar_slide8_v2.py` (modelagem), `gerar_slide12_v2.py` (MILP A e B), `gerar_slide14.py` (`p1`), `gerar_slide15.py` (`p1`), `gerar_slide16.py` (`h4`), `gerar_slide18.py`, `gerar_slide19.py` (`p1`), `gerar_slide20.py`, `gerar_slide21.py`, `gerar_slide23_v2.py` (`d`; ilustrações em `slides/assets/ilus_*.png`, fornecidas pelo responsável), `gerar_slide24_27_v2.py` (`e2b` e `k1b`; usa `gerar_slide24_27.py` e `gerar_slide24_25.py`), `gerar_slide29.py` (`b`), `gerar_slide31c.py`, `gerar_slide32c.py` (estilo do deck: o responsável preferiu, no 32, NÃO usar o visual do app), `gerar_slide33b.py` (despachos COM o visual do SEEDS), `gerar_slide34.py`, `gerar_slide36.py`,
+  `gerar_slide7_v2.py` (`k3v2`), `gerar_slide8_v2.py` (modelagem), `gerar_slide12_v2.py` (MILP A e B), `gerar_slide14.py` (`p1`), `gerar_slide15.py` (`p1`), `gerar_slide16.py` (`h4`), `gerar_slide18.py`, `gerar_slide19.py` (`p1`), `gerar_slide20.py`, `gerar_slide21.py`, `gerar_slide23_v2.py` (`d`; ilustrações em `slides/assets/ilus_*.png`, fornecidas pelo responsável), `gerar_slide24_27_v2.py` (`e2b` e `k1b`; usa `gerar_slide24_27.py` e `gerar_slide24_25.py`), `gerar_slide29.py` (`b`), `gerar_slide31c.py`, `gerar_slide32c.py` (estilo do deck: o responsável preferiu, no 32, NÃO usar o visual do app), `gerar_slide33b.py` (despachos COM o visual do SEEDS), `gerar_slide34.py`, `gerar_slide36.py`, `gerar_slide37.py`,
   `gerar_divisores.py` (V1). Cópias congeladas: `slides/slideNN_aprovado.html` (numeração antiga no nome) e `slides/divisor0N.html`.
 
 ## Fontes
@@ -79,3 +79,5 @@ Branch: `claude/dazzling-bohr-5d0121` · pasta `docs/defesa_tcc/`. Defesa de TCC
 - Valorizar o trabalho (tom de defesa, limitações suaves). Conversa em espanhol/portunhol; slides em português.
 - Commit + push na mesma branch a cada passo; não abrir PR.
 - **NÃO enviar PDF/PPTX a cada slide aprovado** (gasta tokens): só registrar no deck.py/docs; exportar e entregar o deck apenas quando o responsável pedir.
+
+- Seção 07 renomeada (pedido do responsável): «Conclusões e trabalhos futuros» (sumário `capa/sumario.html`, separador, deck.py, gerar_pptx.js); o slide 37 chama-se «Trabalhos futuros».

diff --git a/docs/defesa_tcc/DESIGN.md b/docs/defesa_tcc/DESIGN.md
@@ -261,3 +261,10 @@ Gerador `slides/gerar_slide36.py`. Esquerda: a pergunta do slide 7 no cartão na
 e a ressalva do artigo; embaixo, os quatro objetivos específicos com ✓ teal e a evidência em teal (24 px). Direita: dois cartões claros
 com filete («Na microrrede industrial, observamos que» — vermelho rede; «Na embarcação, observamos que» — PEMFC), ícones dos recursos e
 três frases cada (28 px). O responsável pediu letra maior em todo o slide.
+
+## 28. Slide 37 — Trabalhos futuros (aprovado) — `slides/slide37_aprovado.html`
+
+Gerador `slides/gerar_slide37.py`. Frase «A plataforma está pronta para avançar em:» e cinco cartões claros iguais (ícone em círculo na cor
+do tema, título Gelasio 30, descrição 25 px, filete e linha «Hoje» com o estado atual verificado no código): geração térmica no EMS ·
+malha temporal automática · custo futuro com vários bancos · previsão × realidade · dados experimentais. Seção 07 renomeada para
+«Conclusões e trabalhos futuros».

diff --git a/docs/defesa_tcc/ROTEIRO.md b/docs/defesa_tcc/ROTEIRO.md
@@ -85,7 +85,7 @@ A tabela acima é o roteiro por conteúdo (numeração antiga). A numeração **
 | 32 | Resultados — custos operacionais (C1–C4) | 06 | ✔ aprovado (quatro custos por intervalo, parcela na ponta, plano × economia) |
 | 33 | Resultados — embarcação híbrida (C5 × C6) | 06 | ✔ aprovado (despachos do SEEDS lado a lado; C6 reproduzido no SEEDS) |
 | 34 | Expansibilidade e desempenho computacional | 06 | ✔ aprovado (composições compactas, curva PWL gravada e erro relativo) |
-| 35 | Conclusões e perspectivas | 07 | ✔ aprovado |
+| 35 | Conclusões e trabalhos futuros | 07 | ✔ aprovado |
 | 36 | Conclusões | 07 | ✔ aprovado (resposta à pergunta, objetivos marcados, comparação dos dois estudos) |
-| 37 | Trabalhos futuros | 07 | a desenhar |
+| 37 | Trabalhos futuros | 07 | ✔ aprovado (cinco cartões com a linha «Hoje»; antes «Perspectivas») |
 | 38 | Agradecimentos | 07 | a desenhar |
